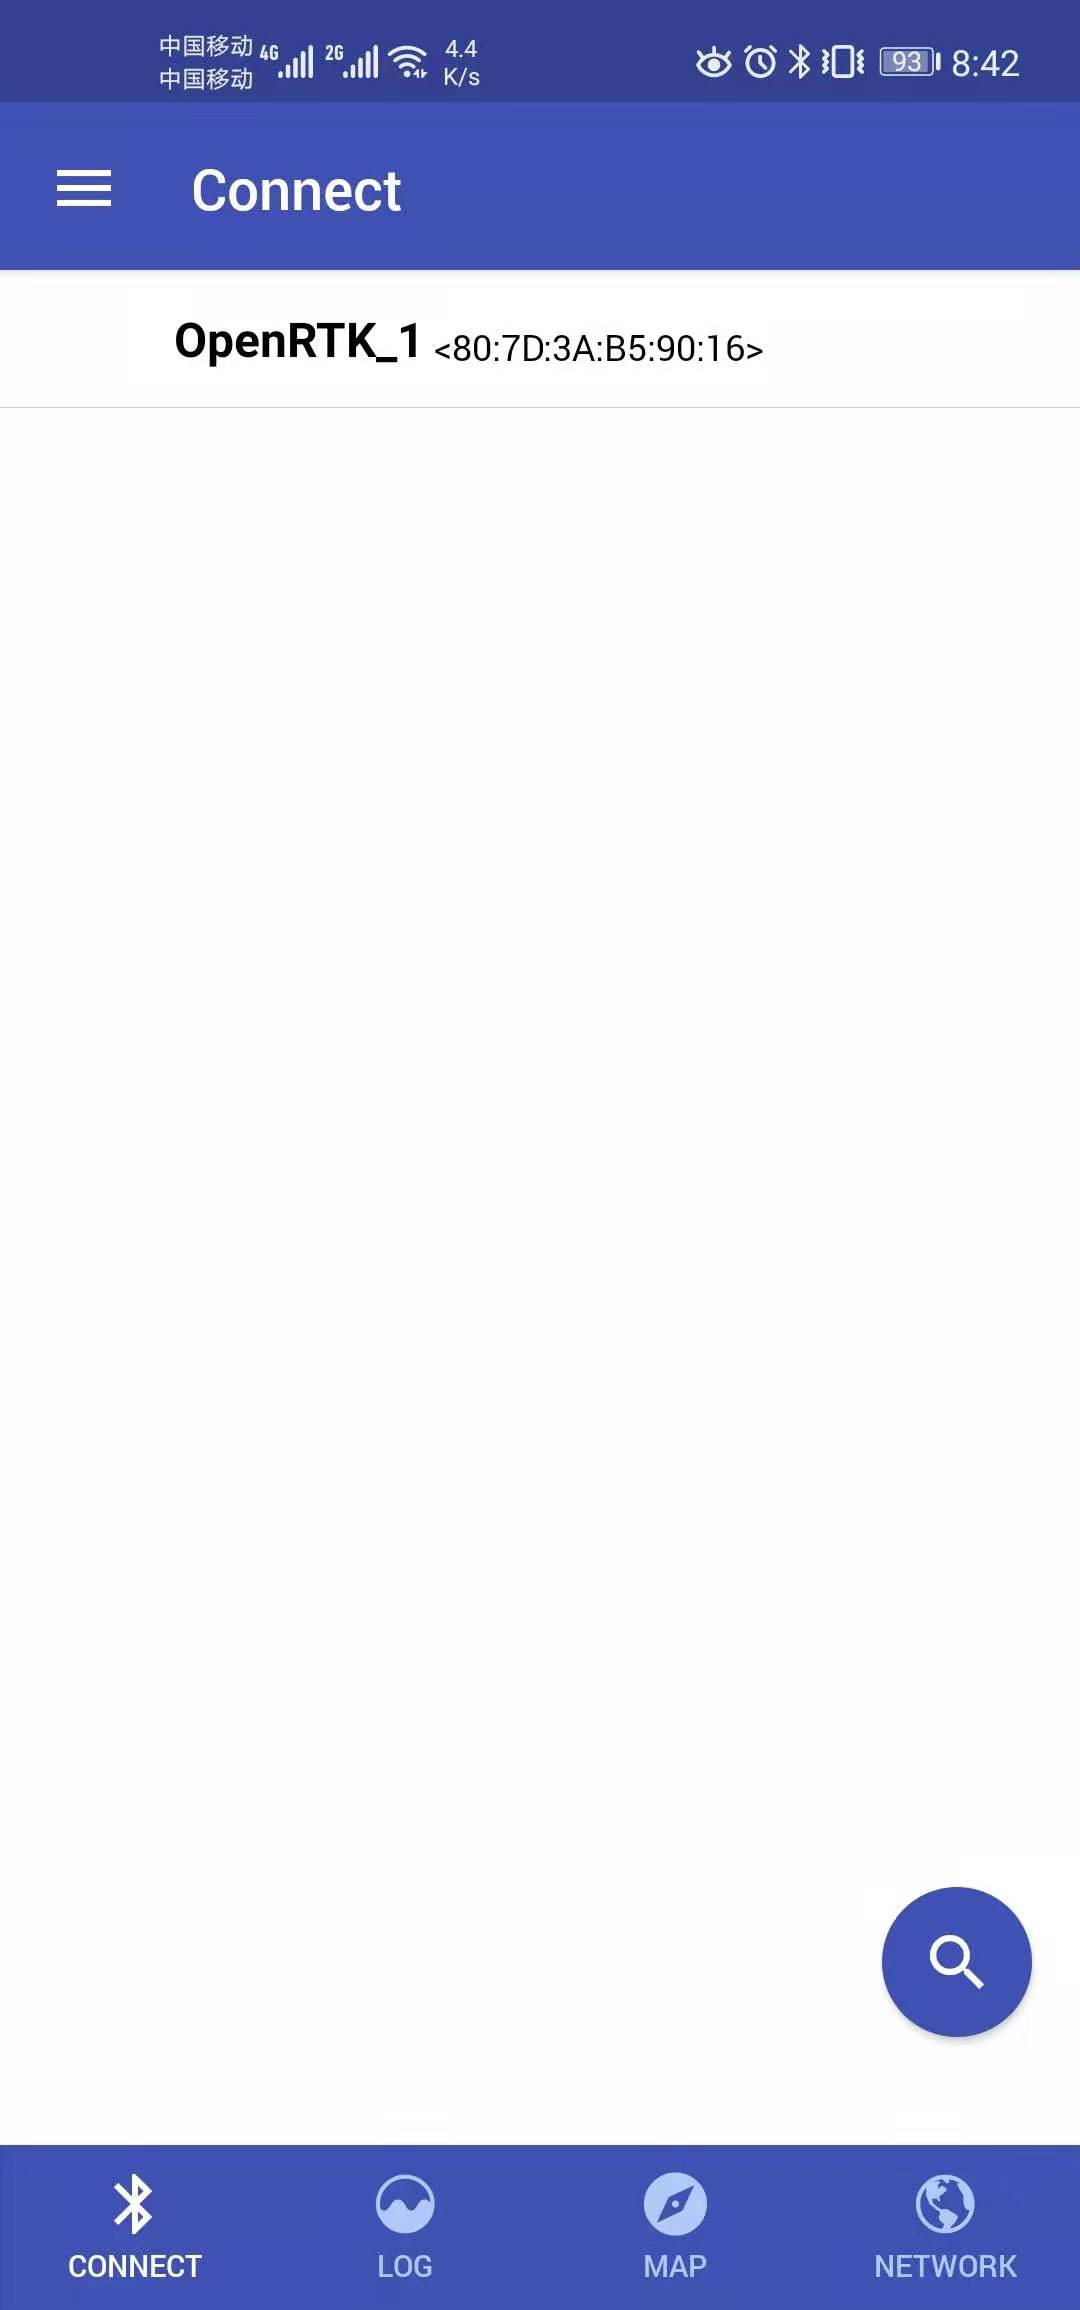
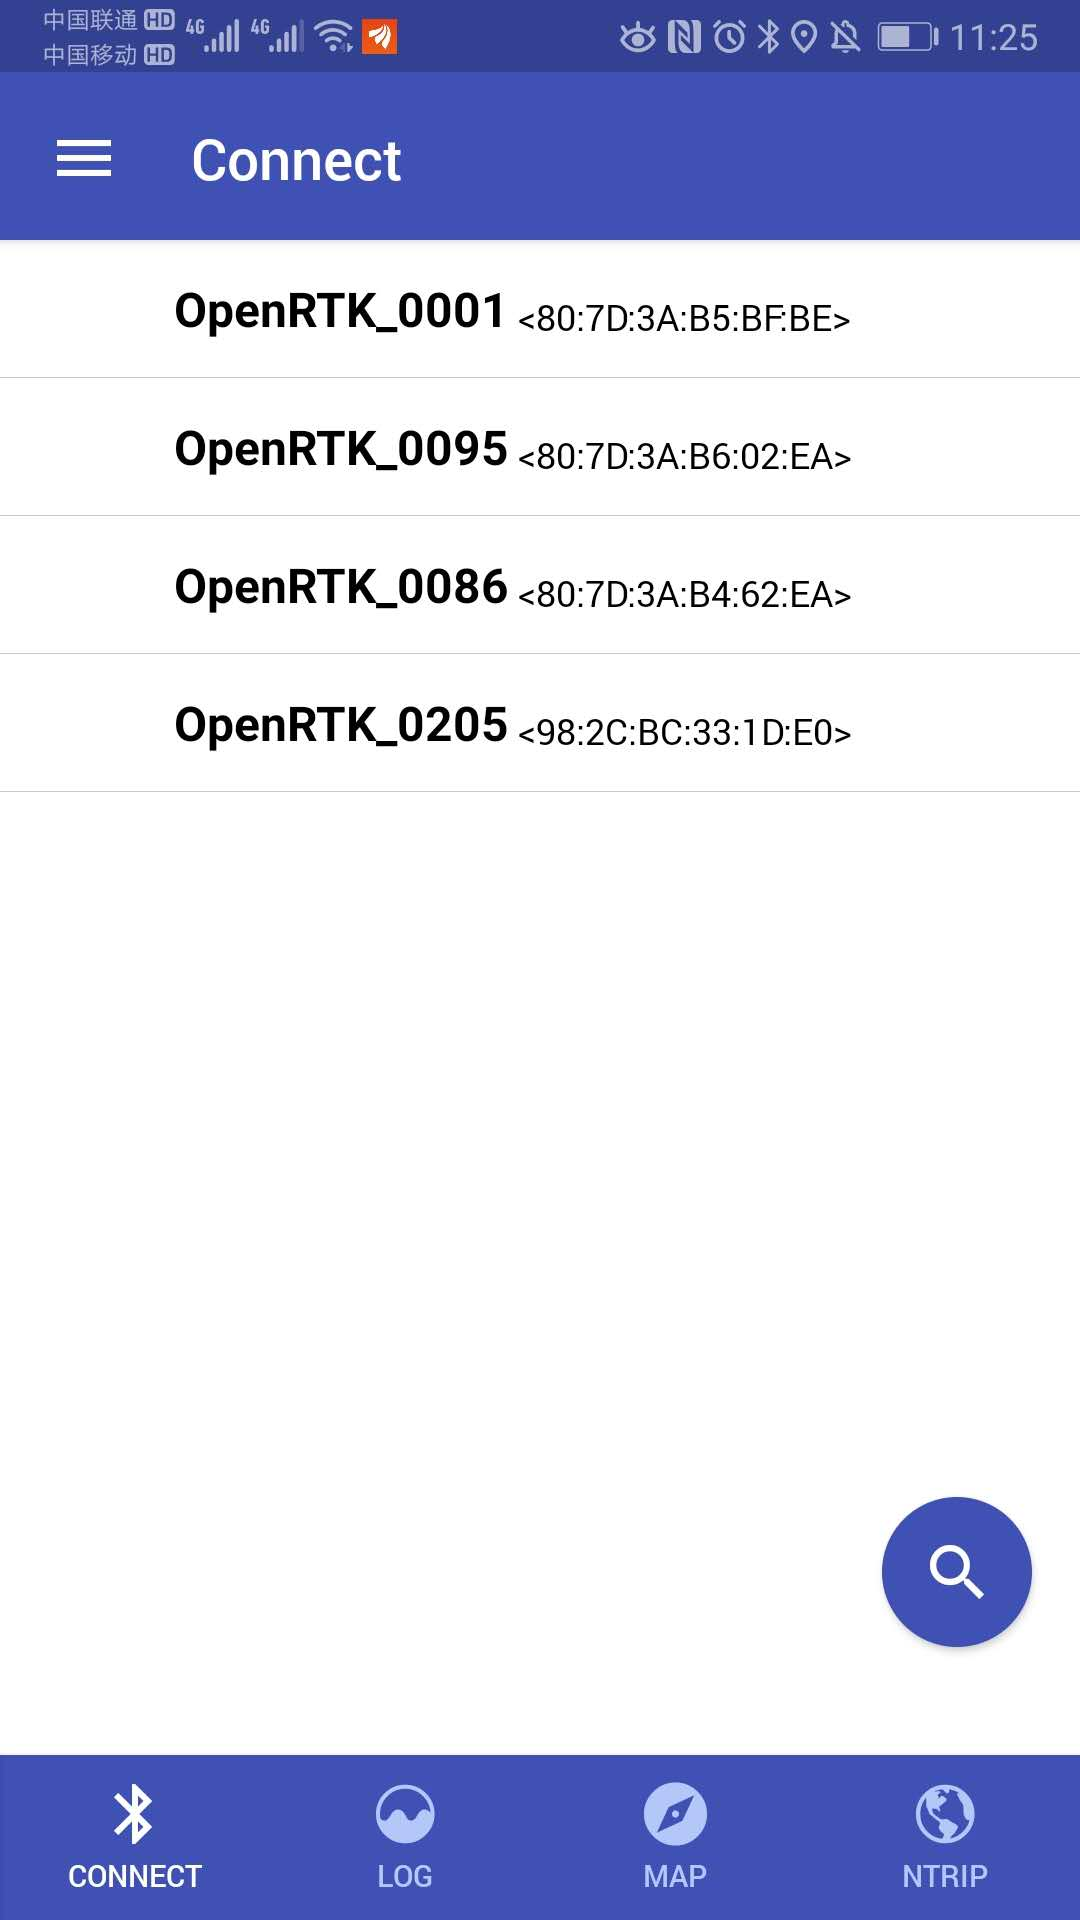
cleaned up half of Android App section

diff --git a/useOpenRTK/APP.rst b/useOpenRTK/APP.rst
@@ -1,30 +1,48 @@
 Android
 =======
 
+The following describes the installation and usage of the "OpenRTK" Android App.
+
 Installation
-~~~~~~~~~~~~~~~~~~~~~~~~~~~~~~~
+~~~~~~~~~~~~~~~~~
 
- ::
-
- 1. You can scan the QR code to download, or `download app from here <https://developers.aceinna.com/static/appDownload.html/>`__. Currently only the android version and make sure
-    your Android version is 8.0 or above.
+1. Scan the QR code below or click `here <https://developers.aceinna.com/static/appDownload.html/>`_ to download the Android apk installation file. Make sure your Android version is 8.0 or above.
 
  .. image:: ../media/ercode.png
     :align: center
     :scale: 70%
 
- ::
 
- 2. After downloading the OpenRTK app, open the APK file for installation.
+2. Open the downloaded APK file to install the App 
 
  .. note::
 
-     Please make your Android device allow the OpenRTK app to run in background.
+     Please grant the OpenRTK App access to run in Android system's backend.
 
 Usage
 ~~~~~~~~~~~~~
+1. Power on the OpenRTK330 EVB using a 9-12 v DC adaptor or a microUSB cable connected to a PC (desktop, Raspberry Pi etc.), and check the YELLOW, RED AND GREEN LED lights to confirm valid firmware
 
- **1. Network Configuration**.
+  - YELLOW: flashing light indicating GNSS chipsets is powered on with 1PPS signal output correctly 
+  - GREEN: flashing light indicating OpenRTK330 RTK or INS App is running correctly 
+
+2. **Connection**
+
+ - Enable "Bluetooth" on your Anroid device
+ - Open the OpenRTK Andorid App and enable "Location" access for "OpenRTK" App on your Anroid device 
+ - As shown by the picture below, go to the "Connect" tab and click the "search" icon to search for your device. If your OpenRTK330 device is found, a Bluetooth device ID appears on the "Connect" list. By factory setting, the Bluetooth device ID is "OpenRTK_<four digits>" and the four digits are the last four digits of your OpenRTK330 module S/N.
+
+  .. image:: ../media/connect.jpg
+    :align: center
+    :scale: 18%   
+
+ - After it’s connected, you can see the following interface.
+
+  .. image:: ../media/connectLog.jpg
+    :align: center
+    :scale: 18%   
+
+3. **Network Configuration**
 
   - *RTK Type*: 
 
@@ -70,21 +88,6 @@ Usage
 
   - *Save result*: Save result information in GPGGA format if switch is on. The storage path is *Android/data/com.aceinna.rtk/files/log*.
 
-Connection
-~~~~~~~~~~
-
- - Turn on your RTK Bluetooth device and make it discoverable.
- - Click the "search" icon to search for your device, if it's not on already, please turn on location permissions for your Bluetooth.
-
-  .. image:: ../media/connect.jpg
-    :align: center
-    :scale: 18%   
-
- - After it’s connected, you can see the following interface.
-
-  .. image:: ../media/connectLog.jpg
-    :align: center
-    :scale: 18%   
  
 Map
 ~~~

diff --git a/useOpenRTK.rst b/useOpenRTK.rst
@@ -1,5 +1,5 @@
 How to Use OpenRTK330?
-===================
+========================
 
 Note the usage of OpenRTK330 is described with the OpenRTK330 EVK. There are two types of user APP provided to interact with both the module and a NTRIP server over the internet providing GNSS correction data for RTK positioning:
 
@@ -18,6 +18,7 @@ Note the usage of OpenRTK330 is described with the OpenRTK330 EVK. There are two
   * Module settings on positioning parameters and user configuration with a web GUI embedded in firmware
   * Map and positioning information display on the online web GUI (`"OpenRTK Monitor" <https://developers.aceinna.com/devices/rtk>`_) of Aceinna developer website
 
+    .. image:: /media/PC_tool.png
 
 The following two subsections cover the detailed steps of using the two types of user App.
 

diff --git a/useOpenRTK/PC.rst b/useOpenRTK/PC.rst
@@ -14,7 +14,6 @@ configure parameters during data transmission. Finally display trajectory in map
    written to the device. The RTK device will calibrate according to the
    data.
 
-.. image:: ../media/PC_tool.png
 
 Installation and initialization
 ~~~~~~~~~~~~~~~~~~~~~~~~~~~~~~~
